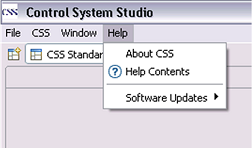
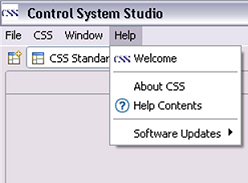
welcome page

diff --git a/core/plugins/org.csstudio.startup/intro/html/welcome/welcome.html b/core/plugins/org.csstudio.startup/intro/html/welcome/welcome.html
@@ -6,8 +6,7 @@
 <!-- InstanceBeginEditable name="doctitle" -->
 <title>Untitled Document</title>
 <!-- InstanceEndEditable -->
-<!-- InstanceBeginEditable name="head" -->
-<!-- InstanceEndEditable -->
+<!-- InstanceBeginEditable name="head" --><!-- InstanceEndEditable -->
 </head>
 <body>
 	<table border="0" cellpadding="0" cellspacing="0" style="border-collapse: collapse" bordercolor="#111111" width="100%">
@@ -108,7 +107,10 @@
 	<p>&nbsp;</p>
 	<h2>2.4. Help</h2>
 	<p>&nbsp;</p>
-	<p><img src="../images/welcome5.png" width="252" height="148" /></p>
+	<p><img src="../images/welcome5.png" width="248" height="183" /></p>
+	<p>&nbsp;</p>
+	<p><strong>Welcome</strong></p>
+	<p>Open this <em>Jump Start</em> document. </p>
 	<p>&nbsp;</p>
 	<p><strong>About CSS</strong></p>
 	<p>Open the &ldquo;About&rdquo; dialog  that contains the CSS license agreement.</p>
